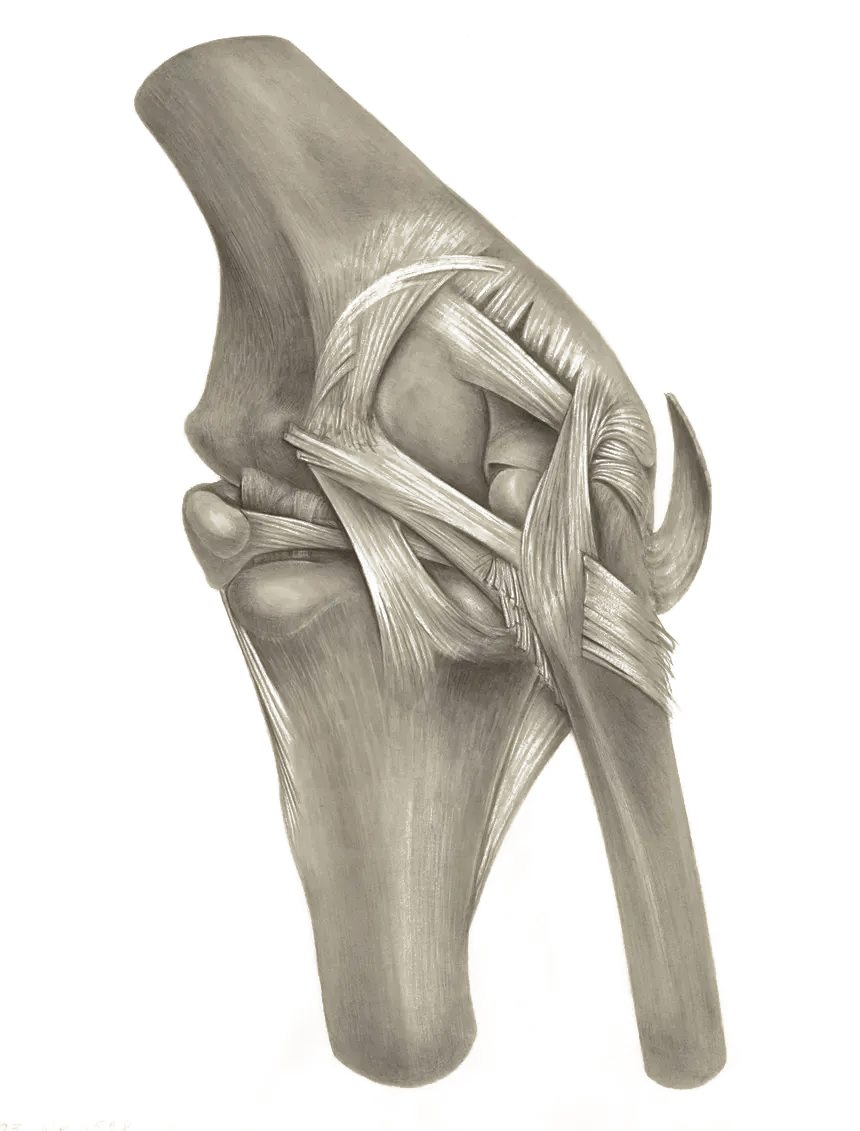
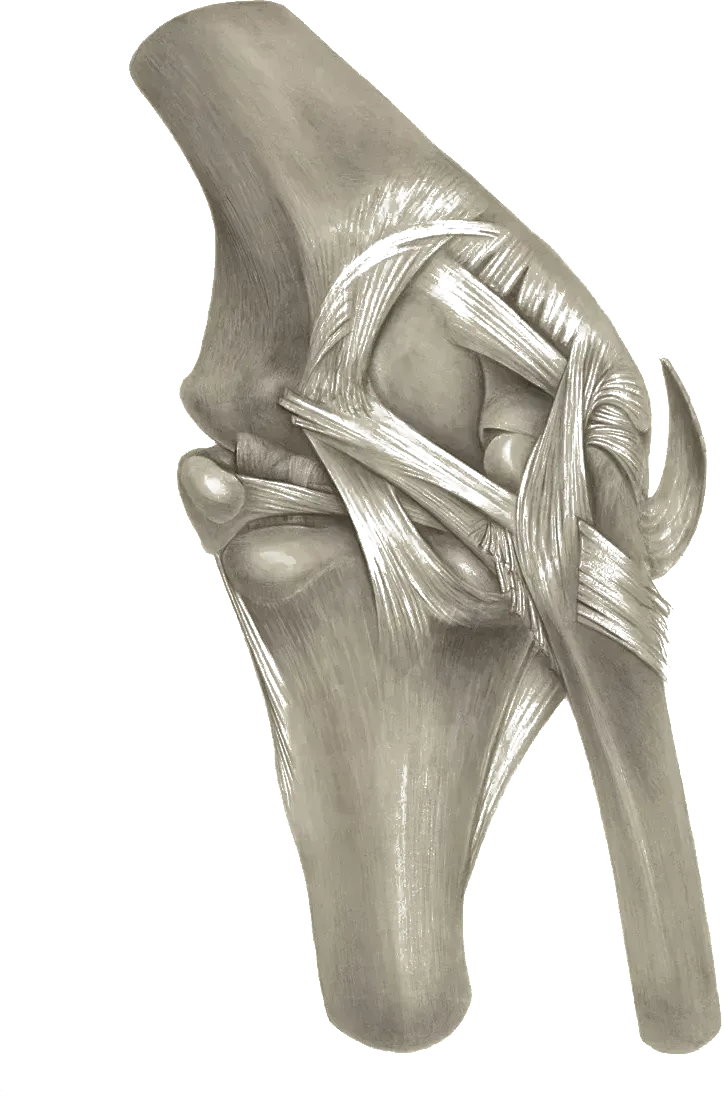
Redesign condition anatomy accents as framed specimen medallions
Replace the floating per-region cutouts with one consistent parchment-grounded
medallion (double gold hairline, graphite composited into the paper with
mix-blend-multiply) on every condition hero, so all 61 pages read as one set
instead of a row of differently-shaped cutouts.

Expand from 6 region plates to 11 real public-domain plates matched to the
structure and mapped by condition slug: separate patella / meniscus+cruciate /
collateral knee views, cervical vs lumbar spine, wrist+hand vs elbow, and an
isolated hamstring. Pelvis remains a genuine gap so SI/piriformis/groin fall
back to the hip plate.

Clean residual scan paper from the original-session plates (alpha ramp +
highlight roll-off) and serve the raw webp (unoptimized) so the transparency
survives for the multiply blend rather than being flattened to an alpha-less
JPEG rectangle.

diff --git a/components/conditions/RegionAnatomy.tsx b/components/conditions/RegionAnatomy.tsx
@@ -3,70 +3,138 @@ import Image from 'next/image';
 /**
  * RegionAnatomy
  *
- * Decorative hero accent for condition pages: a public-domain anatomical plate
- * (Leiden University Libraries via Europeana; foot is a Desmaretz skeletal
- * plate), one per body region, warm-tinted to the brand gold and dissolved into
- * the page.
+ * Decorative hero accent for condition pages: a real public-domain anatomical
+ * plate (Leiden University Libraries via Europeana; foot is a Desmaretz skeletal
+ * plate) presented as a framed specimen medallion.
  *
- * Treatment (approved as "Treatment B" in the preview comp): mix-blend-multiply
- * drops the cream paper into the light hero so the drawing floats; the gold
- * filter tints the graphite toward #B08D57/#D4AF37; a vertical mask fades the
- * top/bottom so structures cut by the plate edge dissolve instead of hard-crop.
+ * Design: every page shows the SAME round, parchment-grounded medallion with a
+ * fine double gold hairline (the mount on an antique engraving); only the plate
+ * inside changes. That makes all 61 condition heroes feel like one set instead
+ * of a row of differently-shaped cutouts. The graphite is composited into the
+ * parchment with mix-blend-multiply so it reads as ink on paper rather than a
+ * pasted PNG, which also dissolves any knockout halo and normalises plates that
+ * were drawn on slightly different papers.
+ *
+ * Plates are matched to the *structure*, not just the body region (a patella
+ * page shows the kneecap, an ACL page the cruciate notch, a meniscus page the
+ * tibial plateau, sciatica the lumbar column). PLATE_BY_SLUG carries the
+ * specific assignments; PLATE_BY_CATEGORY is the fallback.
  *
  * Decorative -> aria-hidden + empty alt (the H1 + byline carry the meaning).
- * Categories without a plate render nothing.
  */
-
-const EDGE_FADE =
-  'linear-gradient(to bottom, transparent 0%, #000 9%, #000 91%, transparent 100%)';
 
 interface Plate {
   src: string;
   width: number;
   height: number;
-  widthClass: string;
 }
 
-const PORTRAIT = 'w-[150px] xl:w-[180px]';
+const PLATES: Record<string, Plate> = {
+  knee: { src: '/images/anatomy/anatomy-knee.webp', width: 722, height: 1096 },
+  'knee-meniscus': { src: '/images/anatomy/anatomy-knee-meniscus.webp', width: 760, height: 1057 },
+  'knee-patella': { src: '/images/anatomy/anatomy-knee-patella.webp', width: 764, height: 872 },
+  spine: { src: '/images/anatomy/anatomy-spine.webp', width: 469, height: 1136 },
+  'spine-lumbar': { src: '/images/anatomy/anatomy-spine-lumbar.webp', width: 330, height: 957 },
+  shoulder: { src: '/images/anatomy/anatomy-shoulder.webp', width: 715, height: 1144 },
+  elbow: { src: '/images/anatomy/anatomy-elbow.webp', width: 223, height: 1344 },
+  hand: { src: '/images/anatomy/anatomy-hand.webp', width: 609, height: 933 },
+  hip: { src: '/images/anatomy/anatomy-hip.webp', width: 605, height: 1491 },
+  hamstring: { src: '/images/anatomy/anatomy-hamstring.webp', width: 600, height: 931 },
+  foot: { src: '/images/anatomy/anatomy-foot.webp', width: 833, height: 274 },
+};
 
-const PLATE_BY_CATEGORY: Record<string, Plate> = {
-  knee: { src: '/images/anatomy/anatomy-knee.webp', width: 860, height: 1131, widthClass: PORTRAIT },
-  'spinal-health': { src: '/images/anatomy/anatomy-spine.webp', width: 860, height: 1226, widthClass: PORTRAIT },
-  'hip-pelvis': { src: '/images/anatomy/anatomy-hip.webp', width: 860, height: 1638, widthClass: PORTRAIT },
-  shoulder: { src: '/images/anatomy/anatomy-shoulder.webp', width: 860, height: 1256, widthClass: PORTRAIT },
-  'elbow-wrist-hand': { src: '/images/anatomy/anatomy-elbow.webp', width: 820, height: 1427, widthClass: PORTRAIT },
-  // Foot is a lateral (landscape) plate -> render wider so it has presence.
-  'foot-ankle': { src: '/images/anatomy/anatomy-foot.webp', width: 1000, height: 430, widthClass: 'w-[200px] xl:w-[235px]' },
+// Structure-level mapping: condition slug -> plate. Anything not listed here
+// falls back to the region plate in PLATE_BY_CATEGORY.
+const PLATE_BY_SLUG: Record<string, keyof typeof PLATES> = {
+  // Knee: intra-articular (cruciates + menisci) / collateral + general / patella
+  'meniscus-tears': 'knee-meniscus',
+  'acl-injuries': 'knee-meniscus',
+  'pcl-injuries': 'knee-meniscus',
+  'mcl-lcl-sprains': 'knee',
+  'it-band-syndrome': 'knee',
+  'knee-osteoarthritis': 'knee',
+  'patellar-tendinopathy': 'knee-patella',
+  'knee-pain-patellofemoral': 'knee-patella',
+  'patella-fractures': 'knee-patella',
+  // Spine: cervical (neck) vs lumbar (low back / disc / nerve)
+  'neck-pain': 'spine',
+  whiplash: 'spine',
+  'low-back-pain': 'spine-lumbar',
+  sciatica: 'spine-lumbar',
+  'disc-herniation': 'spine-lumbar',
+  'degenerative-disc-disease': 'spine-lumbar',
+  'spinal-stenosis': 'spine-lumbar',
+  'facet-joint-syndrome': 'spine-lumbar',
+  'postural-dysfunction': 'spine-lumbar',
+  // Elbow/forearm vs wrist/hand
+  'tennis-elbow': 'elbow',
+  'golfers-elbow': 'elbow',
+  'repetitive-strain-injuries': 'elbow',
+  'carpal-tunnel-syndrome': 'hand',
+  'de-quervains-tenosynovitis': 'hand',
+  'wrist-sprains': 'hand',
+  'scaphoid-fractures': 'hand',
+  // Hip/pelvis: posterior-thigh muscle conditions get the hamstring plate;
+  // joint + pelvic-region conditions use the hip plate (no isolated pelvis
+  // plate exists in the public-domain family).
+  'proximal-hamstring-tendinopathy': 'hamstring',
+  'hamstring-strains': 'hamstring',
+};
+
+const PLATE_BY_CATEGORY: Record<string, keyof typeof PLATES> = {
+  knee: 'knee',
+  'spinal-health': 'spine-lumbar',
+  'hip-pelvis': 'hip',
+  shoulder: 'shoulder',
+  'elbow-wrist-hand': 'elbow',
+  'foot-ankle': 'foot',
 };
 
 export default function RegionAnatomy({
+  slug,
   category,
   className = '',
 }: {
+  slug?: string;
   category: string;
   className?: string;
 }) {
-  const plate = PLATE_BY_CATEGORY[category];
+  const key = (slug && PLATE_BY_SLUG[slug]) || PLATE_BY_CATEGORY[category];
+  const plate = key ? PLATES[key] : undefined;
   if (!plate) return null;
+
+  // The foot is the one landscape plate; let it spread a little wider and sit
+  // shorter so it reads at the same visual weight as the portrait specimens.
+  const fit = key === 'foot' ? 'max-w-[88%] max-h-[64%]' : 'max-w-[76%] max-h-[82%]';
 
   return (
     <div
       aria-hidden="true"
-      className={`pointer-events-none relative select-none ${plate.widthClass} ${className}`}
+      className={`relative isolate w-[240px] xl:w-[280px] aspect-square select-none ${className}`}
     >
-      <Image
-        src={plate.src}
-        width={plate.width}
-        height={plate.height}
-        alt=""
-        sizes="330px"
-        loading="lazy"
-        className="w-full h-auto opacity-90"
-        style={{
-          maskImage: EDGE_FADE,
-          WebkitMaskImage: EDGE_FADE,
-        }}
-      />
+      {/* Parchment ground + soft seated shadow */}
+      <div className="absolute inset-0 rounded-full bg-[#F4EEE3] shadow-[0_16px_44px_-20px_rgba(15,23,42,0.28)]" />
+      {/* Double hairline frame — the mount on an antique plate */}
+      <div className="absolute inset-0 rounded-full ring-1 ring-[#B08D57]/35" />
+      <div className="absolute inset-[7px] rounded-full ring-1 ring-[#B08D57]/15" />
+      {/* The specimen, composited into the paper */}
+      <div className="absolute inset-[7px] rounded-full overflow-hidden flex items-center justify-center">
+        <Image
+          src={plate.src}
+          width={plate.width}
+          height={plate.height}
+          alt=""
+          sizes="320px"
+          loading="lazy"
+          // Serve the pre-optimized webp as-is: next/image would re-encode to
+          // alpha-less JPEG for non-webp Accept headers, flattening the
+          // transparent paper into a faint rectangle under mix-blend-multiply.
+          unoptimized
+          className={`w-auto h-auto object-contain mix-blend-multiply opacity-90 ${fit}`}
+        />
+      </div>
+      {/* Faint inner vignette to seat the specimen in the dish */}
+      <div className="absolute inset-[7px] rounded-full pointer-events-none shadow-[inset_0_2px_16px_rgba(15,23,42,0.08)]" />
     </div>
   );
 }

diff --git a/components/ConditionPageClient.tsx b/components/ConditionPageClient.tsx
@@ -617,9 +617,9 @@ export default function ConditionPageClient({
                   bottom tab bar so it stays reachable while the page
                   scrolls; nothing to render in the hero on mobile. */}
               </div>
-              {/* Region anatomy accent — desktop-only public-domain plate, warm-tinted */}
+              {/* Region anatomy accent — desktop-only public-domain plate matched to the structure */}
               <div className="hidden lg:flex flex-shrink-0 self-center justify-end pl-4">
-                <RegionAnatomy category={condition.category} />
+                <RegionAnatomy slug={condition.slug} category={condition.category} />
               </div>
             </div>
           </div>
